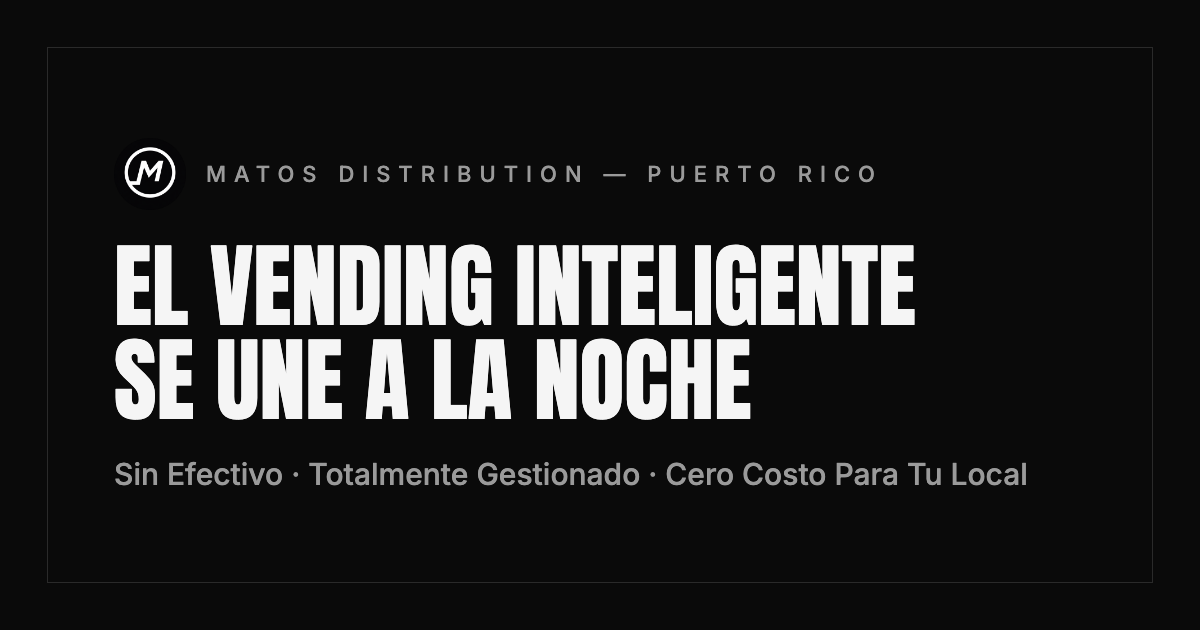
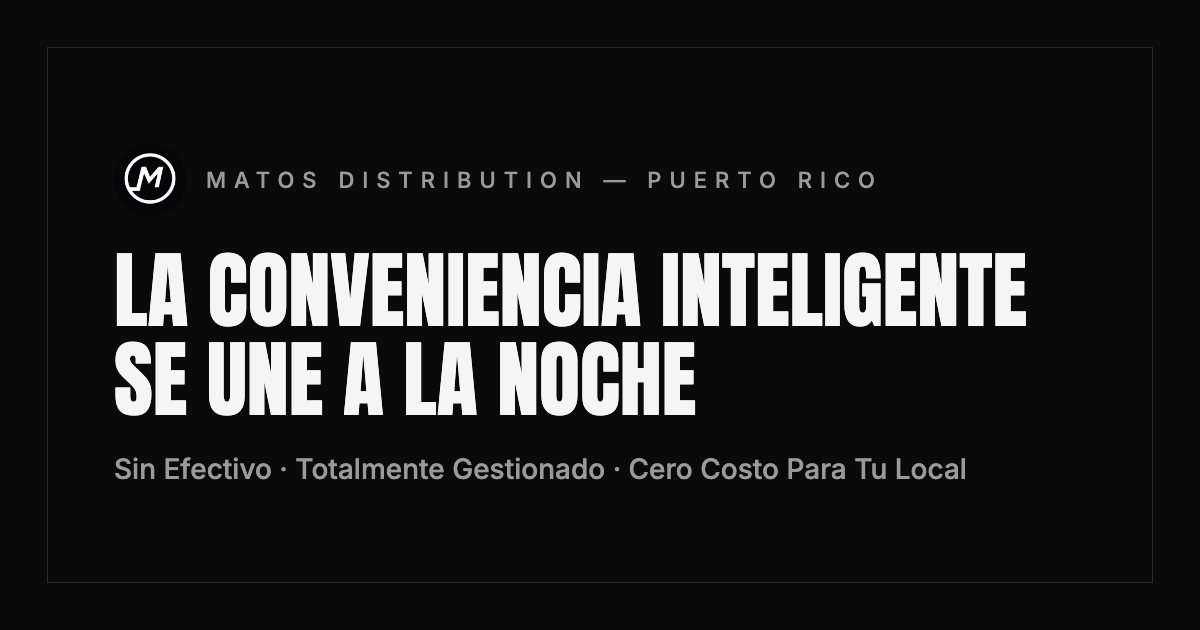
Fix Spanish accent clipping, center check-list dashes, update ES slogan
- Spanish headlines get line-height 1.15 so Á/Ñ/Ú diacritics clear the
  line above (English keeps its tight 1.02 leading)
- Check-list dash markers now align with the first line's vertical center
- Hero subhead and JSON-LD slogan on /es/ now read 'Donde la conveniencia
  inteligente se une a la vida nocturna'; Spanish OG image regenerated to match

Changed region(s): [[0.0925, 0.3921, 0.8633, 0.6635], [0.0925, 0.7238, 0.8633, 0.7841], [0.0925, 0.2413, 0.74, 0.3317]]

diff --git a/styles.css b/styles.css
@@ -47,6 +47,10 @@ h1 { font-size: clamp(3.2rem, 11vw, 7.5rem); }
 h2 { font-size: clamp(2rem, 5.5vw, 3.6rem); margin-bottom: 1.5rem; }
 h3 { font-size: 1.35rem; letter-spacing: 0.06em; }
 
+/* Spanish headlines need looser leading so accents (Á, Ñ, Ú…) clear the line above */
+html[lang="es"] h1,
+html[lang="es"] h2 { line-height: 1.15; }
+
 p { color: var(--light); }
 
 /* ---------- Nav ---------- */
@@ -322,7 +326,8 @@ p { color: var(--light); }
   content: "";
   position: absolute;
   left: 0;
-  top: 1.05em;
+  /* padding-top (0.45em) + half a 1.65 line box = first-line center */
+  top: 1.275em;
   width: 0.9rem;
   height: 1px;
   background: var(--white);

diff --git a/es/index.html b/es/index.html
@@ -63,7 +63,7 @@
       "name": "Puerto Rico"
     },
     "knowsAbout": ["máquinas expendedoras inteligentes", "pagos sin efectivo", "amenidades para la vida nocturna", "alianzas de ingresos compartidos"],
-    "slogan": "Donde el vending inteligente se une a la vida nocturna."
+    "slogan": "Donde la conveniencia inteligente se une a la vida nocturna."
   }
   </script>
 </head>
@@ -97,7 +97,7 @@
       <div class="hero-inner reveal">
         <p class="hero-kicker">Vending Inteligente — Puerto Rico</p>
         <h1>El Futuro de la <br>Conveniencia <br>Está Aquí</h1>
-        <p class="hero-sub">Donde el vending inteligente se une a la vida nocturna.</p>
+        <p class="hero-sub">Donde la conveniencia inteligente se une a la vida nocturna.</p>
         <div class="hero-actions">
           <a class="btn btn-solid" href="#contact">Hazte Socio</a>
           <a class="btn btn-ghost" href="#machines">Ver Las Máquinas</a>